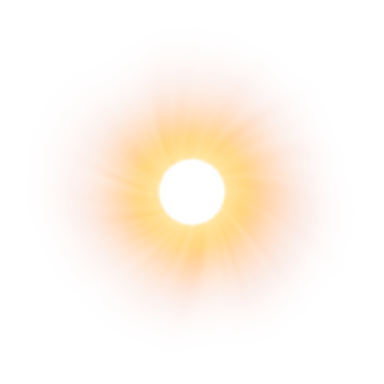
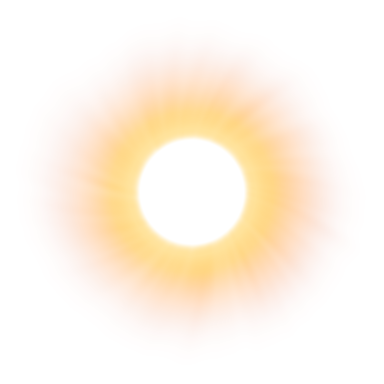
Gem glows reach half as far past their gems
The light images are rendered three gem-widths across (from five), so each glow's reach beyond its
gem is halved while its brightest part stays at the rim.

Claude-Session: https://claude.ai/code/session_01AGgLXhEWFDWnAiYRCGkagM

Changed region(s): [[0.1875, 0.1875, 0.8438, 0.8438]]

diff --git a/src/styles.css b/src/styles.css
@@ -5226,3 +5226,5 @@ button.cmp-turn { display: flex; align-items: baseline; gap: 6px; padding: 5px 1
 .card:not(:has(> .card-racerow)) > .card-glyph { margin-bottom: calc(var(--gem-s) * 0.15); }
 /* (A taller, rounder bump: its peak reaches further up into the picture, so the arc rises smoothly.) */
 .card .art-wrap .art-frame > * { --bump-x: calc(var(--gem-s) * 2.25); --bump-y: calc(var(--gem-s) * 2.05); }
+/* (The light images are three gem-widths across now: every glow reaches half as far past its gem.) */
+.card .gem .gem-light { inset: -100%; -webkit-mask: linear-gradient(180deg, #000 62%, transparent 82%); mask: linear-gradient(180deg, #000 62%, transparent 82%); }

diff --git a/scripts/render_gem_light.py b/scripts/render_gem_light.py
@@ -7,7 +7,7 @@ sun's corona streaming out in curling streamers and swelling plumes, a black hol
 dark aura, its dust lanes spiralling in round its bright lensed ring. Each is a few layers that CSS turns, breathes and
 flickers out of step (styles.css, "The rarity gem's light"), so the light never repeats.
 
-Each image is five gem-widths across with the gem in the middle (its window, radius G, is left dark: the
+Each image is three gem-widths across with the gem in the middle (its window, radius G, is left dark: the
 gem covers it). Alpha carries the light, so it reads over the white card and over the picture alike.
 """
 import os
@@ -22,7 +22,7 @@ c = (N - 1) / 2
 dx, dy = (x - c) / (N / 2), (y - c) / (N / 2)
 r = np.hypot(dx, dy)
 th = np.arctan2(dy, dx)
-G = 0.2            # the gem's radius, in this image's half-widths (the image is 1 / G gem-widths across)
+G = 0.333          # the gem's radius, in this image's half-widths (the image is three gem-widths across)
 px = 2 / N         # one pixel, in the same units
 
 
